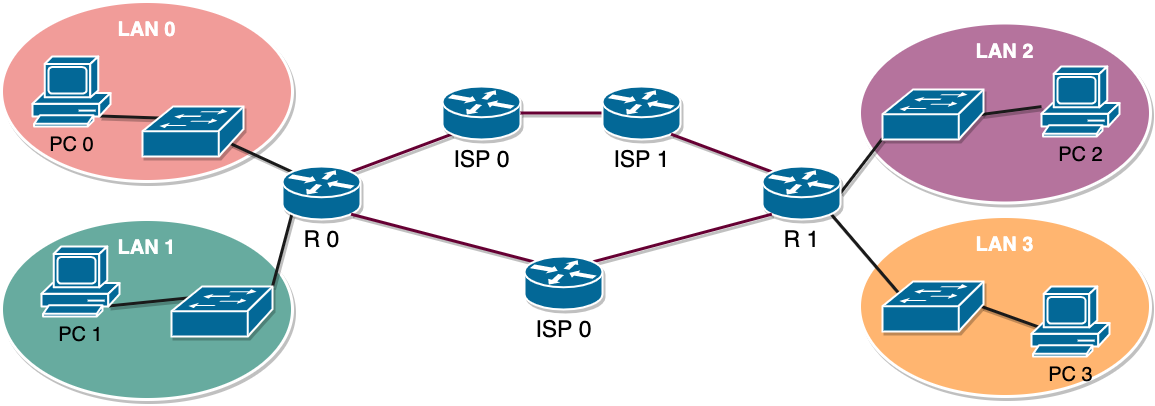
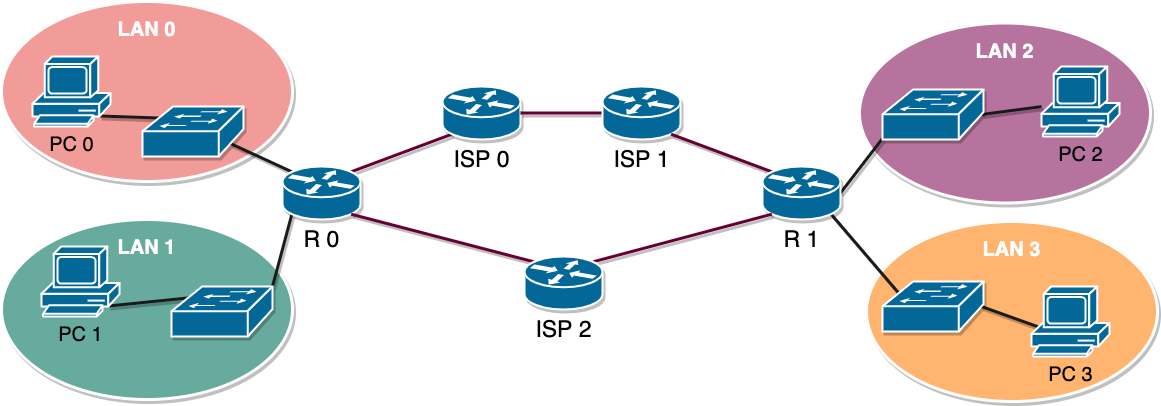
upadte img, inicio trabalho 8

diff --git a/docs/.vuepress/config.js b/docs/.vuepress/config.js
@@ -107,6 +107,7 @@ function getGuideSidebar(theme, group) {
                         'trabalhos/trabalho6',
                         'trabalhos/book_ospf_1',
                         'trabalhos/trabalho7',
+                        'trabalhos/trabalho8',
                     ]
                 }
             ]

diff --git a/docs/networks/trabalhos/trabalho8.md b/docs/networks/trabalhos/trabalho8.md
@@ -1,0 +1,271 @@
+# OSPF - Trabalho prático 8
+
+Considere o seguinte cenário de rede:
+
+![Cenário protocolo 6](/img/redes/5R4L.png)
+
+Tem disponíveis as seguintes redes para atribuir aos equipamentos:
+
+- LAN0 e LAN1: 192.168.0.0 /16
+- LAN0 e LAN1: 172.16.0.0  /16
+- Entre Routers: 10.0.0.0  /24
+
+Efetue a divisão em sub-redes, de modo a garantir que cada uma redes pode conter o seguinte número de hosts:
+
+- LAN0: 500 Host
+- LAN1: 200 Host
+- LAN2: 200 Host
+- LAN3: 500 Host
+
+Implemente o cenário no simulador e configure os equipamentos. Utilize o OSPF como protocolo de routing.
+
+Verifique os seguintes pontos:
+
+- As rotas escolhidas por cada um dos routers é o esperado?
+- Verifique a métrica de cada uma das redes.
+- O que acontece quando a ligação IPS0 e ISP1 é quebrada?
+- Altere a largura de banda (usando o comando clock rate) das linhas entre os routers e verifique como é que o custo das rotas é afetado.
+- É possível alterar a informação de largura de banda das ligações de modo a que os routers selecionem uma rota diferente das escolhida inicialmente?
+
+## Divisão em sub-redes
+
+### LANs
+
+|         LAN       |       Rede                       |   IPs livres  |    Broadcast  |    Gateway    |
+|        :---       |       :---                       |    :---:      |     :---      |     :---      |
+| LAN 0 (500 hosts) | 192.168.0.0  /23 (255.255.254.0) |   1 - .1.254  | 192.168.1.255 | 192.168.1.254 |
+| LAN 1 (200 hosts) | 192.168.2.0  /24 (255.255.254.0) |   1 - 254     | 192.168.2.255 | 192.168.2.254 |
+| LAN 2 (200 hosts) | 172.16.0.0   /24 (255.255.254.0) |   1 - 254     | 172.16.0.255  | 172.16.0.254  |
+| LAN 3 (500 hosts) | 172.16.2.0   /23 (255.255.254.0) |   2.1 - 3.254 | 172.16.3.255  | 172.16.3.254  |
+
+### Routers links
+
+|    Link         |   Rede                           |  IPs livres | Broadcast  |    Serial     |
+|    :---         |   :---                           |  :---       | :---       |     :---:     |
+| ISP 0 - R0      | 10.0.0.0   /30 (255.255.255.252) |  1 - 2      | 10.0.0.3   | 0/0/0 - 0/0/0 |
+| ISP 0 - ISP1    | 10.0.0.4   /30 (255.255.255.252) |  5 - 6      | 10.0.0.7   | 0/0/1 - 0/0/0 |
+| ISP 1 - R1      | 10.0.0.8   /30 (255.255.255.252) |  9 - 10     | 10.0.0.11  | 0/0/1 - 0/0/0 |
+| ISP 2 - R0      | 10.0.0.12  /30 (255.255.255.252) |  13 - 14    | 10.0.0.15  | 0/0/0 - 0/0/1 |
+| ISP 2 - R1      | 10.0.0.16  /30 (255.255.255.252) |  17 - 18    | 10.0.0.19  | 0/0/1 - 0/0/1 |
+
+## Configurar os IPs
+
+### Router ISP 0
+
+```bash
+Router>enable
+Router#configure terminal
+Router(config)#hostname ISP0
+ISP0(config)#interface serial 0/0/0
+ISP0(config-if)#ip address 10.0.0.1 255.255.255.252
+ISP0(config-if)#clock rate 64000
+ISP0(config-if)#no shutdown
+
+ISP0(config-if)#interface serial 0/0/1
+ISP0(config-if)#ip address 10.0.0.5 255.255.255.252
+ISP0(config-if)#clock rate 64000
+ISP0(config-if)#no shutdown
+ISP0(config-if)#end
+```
+
+### Router ISP 1
+
+```bash
+Router>ena
+Router>enable
+Router#configure terminal
+
+Router(config)#hostname ISP1
+ISP1(config)#interface serial 0/0/0
+ISP1(config-if)#ip address 10.0.0.6 255.255.255.252
+ISP1(config-if)#no shutdown
+
+ISP1(config-if)#interface serial 0/0/1
+ISP1(config-if)#ip address 10.0.0.9 255.255.255.252
+ISP1(config-if)#clock rate 64000
+ISP1(config-if)#no shutdown
+
+ISP1(config-if)#end
+```
+
+### Router ISP 2
+
+```bash
+Router>enable
+Router#configure terminal
+Router(config)#hostname ISP2
+ISP2(config)#interface serial 0/0/0
+ISP2(config-if)#ip address 10.0.0.13 255.255.255.252
+ISP2(config-if)#clock rate 64000
+ISP2(config-if)#no shutdown
+
+ISP2(config-if)#interface serial 0/0/1
+ISP2(config-if)#ip address 10.0.0.17 255.255.255.252
+ISP2(config-if)#clock rate 64000
+ISP2(config-if)#no shutdown
+
+ISP2(config-if)#end
+```
+
+### Router R0
+
+```bash
+Router> enable
+Router# configure terminal
+Router(config)# hostname R0
+
+R0(config)# interface serial 0/0/0
+R0(config-if)# ip address 10.0.0.2 255.255.255.252
+R0(config-if)# no shutdown
+
+R0(config)# interface serial 0/0/1
+R0(config-if)# ip address 10.0.0.14 255.255.255.252
+R0(config-if)# no shutdown
+
+R0(config-if)# exit
+
+R0(config)# interface fastEthernet 0/0
+R0(config-if)# ip address 192.168.1.254 255.255.254.0
+R0(config-if)# no shutdown
+
+R0(config-if)# interface fastEthernet 0/1
+R0(config-if)# ip address 192.168.2.254 255.255.255.0
+R0(config-if)# no shutdown
+
+R0(config-if)# end
+```
+
+### Router R1
+
+```bash
+Router> enable
+Router# configure terminal
+Router(config)# hostname R1
+
+R1(config)# interface serial 0/0/0
+R1(config-if)# ip add 10.0.0.10 255.255.255.252
+R1(config-if)# no shutdown
+
+R1(config-if)# interface serial 0/0/1
+R1(config-if)# ip add 10.0.0.18 255.255.255.252
+R1(config-if)# no shutdown
+
+R1(config-if)# exit
+
+R1(config)# interface fastEthernet 0/0
+R1(config-if)# ip address 172.16.0.254 255.255.255.0
+R1(config-if)# no shutdown
+
+R1(config-if)# interface fastEthernet 0/1
+R1(config-if)# ip address 172.16.3.254 255.255.254.0
+R1(config-if)# no shutdown
+
+R1(config-if)# end
+```
+
+## Configurar protocolo OSPF
+
+### Router R0
+
+```bash
+R0# enable
+R0# configure terminal
+
+R0(config)# router ospf 100
+R0(config-router)# exit
+
+R0(config)# interface serial 0/0/0
+R0(config-if)# ip ospf 100 area 0
+R0(config-if)# interface serial 0/0/1
+R0(config-if)# ip ospf 100 area 0
+
+R0(config-if)# exit
+
+R0(config)# interface fastEthernet 0/0
+R0(config-if)# ip ospf 100 area 0
+R0(config-if)# interface fastEthernet 0/1
+R0(config-if)# ip ospf 100 area 0
+
+R0(config-if)# exit
+R0(config)# router ospf 100
+R0(config-router)# passive-interface fastEthernet 0/0
+R0(config-router)# passive-interface fastEthernet 0/1
+
+R0(config-router)# end
+```
+
+### Router R1
+
+```bash
+R1> enable
+R1# configure terminal
+
+R1(config)# router ospf 100
+R1(config-router)# exit
+
+R1(config)# interface serial 0/0/0
+R1(config-if)# ip ospf 100 area 0
+R1(config-if)# interface serial 0/0/1
+R1(config-if)# ip ospf 100 area 0
+
+R1(config-if)# exit
+
+R1(config)# interface fastEthernet 0/0
+R1(config-if)# ip ospf 100 area 0
+R1(config-if)# interface fastEthernet 0/1
+R1(config-if)# ip ospf 100 area 0
+
+R1(config-if)# exit
+
+R1(config)# router ospf 100
+R1(config-router)# passive-interface fastEthernet 0/0
+R1(config-router)# passive-interface fastEthernet 0/1
+R1(config-router)# end
+```
+
+### Router ISP 0
+
+```bash
+ISP0> enable
+ISP0# configure terminal
+ISP0(config)# router ospf 100
+
+ISP0(config-router)# exit
+
+ISP0(config)# interface serial 0/0/0
+ISP0(config-if)# ip ospf 100 area 0
+ISP0(config-if)# interface serial 0/0/1
+ISP0(config-if)# ip ospf 100 area 0
+
+ISP0(config-if)# end
+```
+
+### Router ISP 1
+
+```bash
+ISP1> enable
+ISP1# configure terminal
+ISP1(config)# router ospf 100
+ISP1(config-router)# exit
+
+ISP1(config)# interface serial 0/0/0
+ISP1(config-if)# ip ospf 100 area 0
+ISP1(config-if)# interface serial 0/0/1
+ISP1(config-if)# ip ospf 100 area 0
+ISP1(config-if)# end
+```
+
+### Router ISP 2
+
+```bash
+ISP2> enable
+ISP2# configure terminal
+ISP2(config)# router ospf 100
+ISP2(config-router)# exit
+
+ISP2(config)# interface serial 0/0/0
+ISP2(config-if)# ip ospf 100 area 0
+ISP2(config-if)# interface serial 0/0/1
+ISP2(config-if)# ip ospf 100 area 0
+ISP2(config-if)# end
+```

diff --git a/docs/networks/trabalhos/trabalho1.md b/docs/networks/trabalhos/trabalho1.md
@@ -1,6 +1,6 @@
 # Trabalho prático 1
 
-![Cenário protocolo 1](/img/redes/p1.png)
+![Cenário protocolo 1](/img/redes/1R2L.png)
 
 > Utilize as seguintes redes para as interfaces dos routers e dos PCs:
 > Configure os equipamentos, seguindo os seguintes passos.

diff --git a/docs/networks/trabalhos/trabalho2.md b/docs/networks/trabalhos/trabalho2.md
@@ -1,6 +1,6 @@
 # Trabalho prático 2
 
-![Cenário protocolo 2](/img/redes/p2.png)
+![Cenário protocolo 2](/img/redes/2R.png)
 
 > Utilize as seguintes redes para as interfaces dos routers e dos PCs:
 > Configure os equipamentos, seguindo os seguintes passos.

diff --git a/docs/networks/trabalhos/trabalho7.md b/docs/networks/trabalhos/trabalho7.md
@@ -306,4 +306,4 @@ C    192.168.2.0/24 is directly connected, FastEthernet0/0
 
 ### Analise do protocolo
 
-```
+
